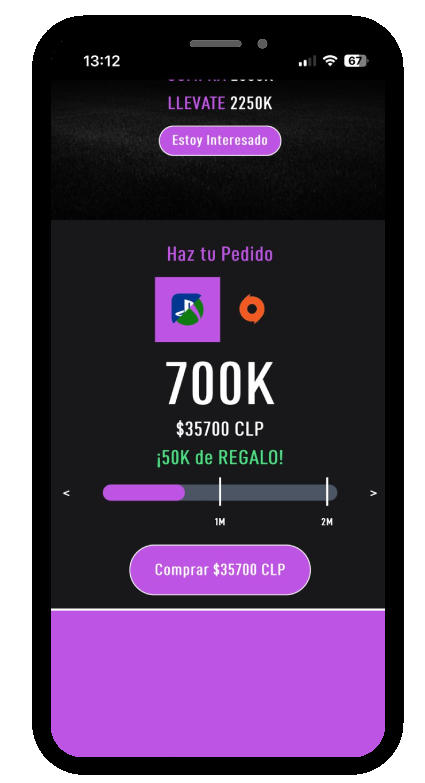
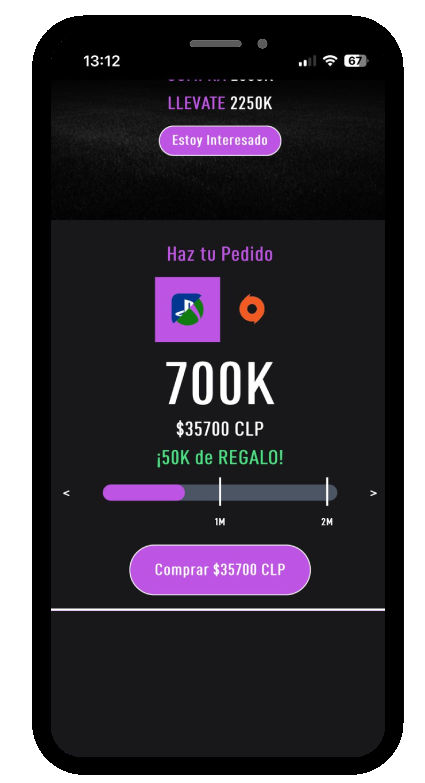
added translations

Changed region(s): [[0.1224, 0.7663, 0.9176, 0.9808]]

diff --git a/src/BuyCoins.js b/src/BuyCoins.js
@@ -7,6 +7,10 @@ import { useCountry } from "./LanguageContext";
 
 import { doc, getDoc } from "firebase/firestore";
 
+import { translate } from "./Translations";
+
+import { useLanguage } from "./LanguageContext";
+
 export default function BuyCoins() {
     const [price, setPrice] = useState(250000);
     const [offer, setOffer] = useState(null);
@@ -41,9 +45,8 @@ export default function BuyCoins() {
     
 
     const calculateBonusCoins = () => {
-        if (price >= 1000000) return "200K";
-        if (price >= 500000) return "50K";
-        if (price >= 300000) return "20K";
+        if (price >= 1000000) return "50K";
+        else if (price >= 500000) return "25K";
         return 0;
     };
 
@@ -165,7 +168,7 @@ export default function BuyCoins() {
     
     
 
-    
+    const language = useLanguage().language;
 
     return (
         <section className=" flex flex-col items-center justify-center w-full">
@@ -174,18 +177,18 @@ export default function BuyCoins() {
 
                     
                     <div className="lg:w-1/3 md:w-5/6 h-96 w-screen flex flex-col items-center justify-start lg:mt-6 text-p1 sm:text-lg font-semibold bg-zinc-900 sm:rounded-xl px-2 py-1 relative">
-                        <h1 className="z-20 w-full text-center text-3xl font-bold mt-8">¡Oferta Disponible!</h1>
+                        <h1 className="z-20 w-full text-center text-3xl font-bold mt-8">{translate("OFERTA", language)}</h1>
 
                         {offer && (
                             <>
                                 <img className="w-32 z-20" src={offer.player} alt="Oferta" />
-                                <h3 className="z-20 font-bold text-lg">COMPRÁ <span className="text-white font-extrabold">{offer.buy}K</span></h3>
-                                <h3 className="z-20 font-bold text-lg">LLEVATE <span className="text-white font-extrabold">{offer.take}K</span></h3>
+                                <h3 className="z-20 font-bold text-lg">{translate("COMPRA", language)} <span className="text-white font-extrabold">{offer.buy}K</span></h3>
+                                <h3 className="z-20 font-bold text-lg">{translate("LLEVATE", language)} <span className="text-white font-extrabold">{offer.take}K</span></h3>
                             </>
                         )}
 
-                        <button className="z-20 bg-p1 rounded-full text-white font-semibold ring-1 ring-white px-3 py-1 hover:scale-105 duration-75 ease-in-out text-sm mt-2" onClick={openWhatsAppOffer}>
-                            Estoy Interesado
+                        <button className="z-20 bg-p1 rounded-full text-white font-semibold ring-1 ring-white px-3 py-1 hover:scale-105 duration-75 ease-in-out text-xl mt-2" onClick={openWhatsAppOffer}>
+                            {translate("INTERESTED", language)}
                         </button>
 
                         <img className="absolute w-full h-full top-0 left-0 sm:rounded-xl" src="stadiumBg2.webp" alt="Background" />
@@ -195,7 +198,7 @@ export default function BuyCoins() {
                         
                         <div className="w-full flex flex-col md:flex-row md:px-5 items-center justify-center md:justify-between gap-0 mb-3">
                             <h1 className="text-p1 mt-1 mb-2 font-bold text-xl w-full text-center md:text-right md:text-4xl">
-                                Haz tu Pedido
+                                {translate("PEDIDO", language)}
                             </h1>  
                             <div className="w-full flex flex-row items-center justify-center gap-0">
 
@@ -242,10 +245,10 @@ export default function BuyCoins() {
                                 </span>
                                 <span className="text-xl font-bold text-green-400">
                                     {price >= 300000 ?
-                                    <h1>¡{calculateBonusCoins()} de REGALO!</h1>
-                                    : <h1 className="text-white w-full text-center">Llevate 
-                                        <span className="text-p1 font-bold"> +300K </span> 
-                                        para obtener un 
+                                    <h1>¡{calculateBonusCoins()} {translate("REGALO", language)}</h1>
+                                    : <h1 className="text-white w-full text-center">{translate("LLEVATE2", language)} 
+                                        <span className="text-p1 font-bold"> +500K </span> 
+                                        {translate("BONUS", language)}  
                                         <span className="text-p1 font-bold"> BONUS </span>
                                     </h1>}
                                     

diff --git a/src/App.js b/src/App.js
@@ -16,14 +16,24 @@ import { LanguageProvider } from "./LanguageContext";
 import { db } from "./firebaseConfig";
 import { doc, setDoc } from "firebase/firestore";
 
+const openWhatsApp = () => {
+  const url = `https://wa.me/34671704084`;
+  window.open(url, "_blank");
+};
+
 function Layout({ children }) {
   return (
     <LanguageProvider>
-    <div className="max-w-screen overflow-hidden min-h-screen bg-black flex flex-col items-start justify-start">
-      <Nav/>
-      <div className="flex-grow w-full">{children}</div>
-      <Footer />
-    </div>
+      <div className="max-w-screen overflow-hidden min-h-screen bg-black flex flex-col items-start justify-start">
+        <Nav/>
+        <div className="flex-grow w-full">{children}</div>
+        <Footer />
+      </div>
+
+      <button className="fixed bottom-4 right-4 bg-green-500 text-white rounded-full w-16 h-16 p-3 hover:scale-110 transition-all duration-75 ease-in-out hover:ring-1 ring-white" onClick={openWhatsApp}>
+        <svg viewBox="0 0 24 24" fill="none" xmlns="http://www.w3.org/2000/svg"><g id="SVGRepo_bgCarrier" stroke-width="0"></g><g id="SVGRepo_tracerCarrier" stroke-linecap="round" stroke-linejoin="round"></g><g id="SVGRepo_iconCarrier"> <path fill-rule="evenodd" clip-rule="evenodd" d="M3.50002 12C3.50002 7.30558 7.3056 3.5 12 3.5C16.6944 3.5 20.5 7.30558 20.5 12C20.5 16.6944 16.6944 20.5 12 20.5C10.3278 20.5 8.77127 20.0182 7.45798 19.1861C7.21357 19.0313 6.91408 18.9899 6.63684 19.0726L3.75769 19.9319L4.84173 17.3953C4.96986 17.0955 4.94379 16.7521 4.77187 16.4751C3.9657 15.176 3.50002 13.6439 3.50002 12ZM12 1.5C6.20103 1.5 1.50002 6.20101 1.50002 12C1.50002 13.8381 1.97316 15.5683 2.80465 17.0727L1.08047 21.107C0.928048 21.4637 0.99561 21.8763 1.25382 22.1657C1.51203 22.4552 1.91432 22.5692 2.28599 22.4582L6.78541 21.1155C8.32245 21.9965 10.1037 22.5 12 22.5C17.799 22.5 22.5 17.799 22.5 12C22.5 6.20101 17.799 1.5 12 1.5ZM14.2925 14.1824L12.9783 15.1081C12.3628 14.7575 11.6823 14.2681 10.9997 13.5855C10.2901 12.8759 9.76402 12.1433 9.37612 11.4713L10.2113 10.7624C10.5697 10.4582 10.6678 9.94533 10.447 9.53028L9.38284 7.53028C9.23954 7.26097 8.98116 7.0718 8.68115 7.01654C8.38113 6.96129 8.07231 7.046 7.84247 7.24659L7.52696 7.52195C6.76823 8.18414 6.3195 9.2723 6.69141 10.3741C7.07698 11.5163 7.89983 13.314 9.58552 14.9997C11.3991 16.8133 13.2413 17.5275 14.3186 17.8049C15.1866 18.0283 16.008 17.7288 16.5868 17.2572L17.1783 16.7752C17.4313 16.5691 17.5678 16.2524 17.544 15.9269C17.5201 15.6014 17.3389 15.308 17.0585 15.1409L15.3802 14.1409C15.0412 13.939 14.6152 13.9552 14.2925 14.1824Z" fill="#ffffff"></path> </g></svg>
+      </button>
+
     </LanguageProvider>
   );
 }

diff --git a/src/ShopTutorial.js b/src/ShopTutorial.js
@@ -1,13 +1,15 @@
 import React from "react";
-
+import { useLanguage } from "./LanguageContext";
+import { translate } from "./Translations";
 export default function ShopTutorial() {
     const [activeStep, setActiveStep] = React.useState(1);
+    const language = useLanguage().language;
 
     const steps = [
-        { id: 1, title: "Elije tu País.", link: "step1.webp" },
-        { id: 2, title: "Selecciona Cantidad.", link: "step2.webp" },
-        { id: 3, title: "Sigue nuestras indicaciones.", link: "step3.webp" },
-        { id: 4, title: "¡Listo!", link: "step4.webp" }
+        { id: 1, title: translate("PASO1", language), link: "step1.webp" },
+        { id: 2, title: translate("PASO2", language), link: "step2.webp" },
+        { id: 3, title: translate("PASO3", language), link: "step3.webp" },
+        { id: 4, title: translate("PASO4", language), link: "step4.webp" }
     ];
 
     return (
@@ -15,7 +17,7 @@ export default function ShopTutorial() {
             
         {/* Sección para móviles */}
         <div className="md:hidden flex flex-col items-center w-full p-4">
-            <h1 className="mt-4 mb-2 font-black text-black text-4xl text-center text-nowrap">¿Cómo Comprar?</h1>
+            <h1 className="mt-4 mb-2 font-black text-black text-4xl text-center text-nowrap">{translate("COMO", language)}</h1>
             <div className="flex justify-start gap-4 mb-4">
                 {steps.map((step) => (
                     <button 
@@ -37,7 +39,7 @@ export default function ShopTutorial() {
         <div className="hidden md:flex h-screen w-screen flex-row gap-2 items-center justify-center">
             {/* Sección Izquierda */}
             <section className="w-1/2 h-auto flex flex-col items-center justify-start gap-4 mb-3">
-                <h1 className="font-black text-black text-4xl w-full text-center mt-2">¿CÓMO COMPRAR?</h1>
+                <h1 className="font-black text-black text-4xl w-full text-center mt-2">{translate("COMO", language)}</h1>
                 {steps.map((step) => (
                     <div 
                         key={step.id} 

diff --git a/src/Boosting.js b/src/Boosting.js
@@ -1,8 +1,11 @@
 import React from "react";
+import { useLanguage } from "./LanguageContext";
+import { translate } from "./Translations";
+
 
 export default function Boosting() {
     const phoneNumber = "34671704084";
-  
+    const language = useLanguage().language;
     const openWhatsApp = () => {
       const message = `Hola ¿qué tal? Quería consultar por el servicio de Boosting. Gracias!`;
       const encodedMessage = encodeURIComponent(message);
@@ -12,15 +15,15 @@ export default function Boosting() {
 
     return (
         <article className="flex flex-col items-center justify-center w-full sm:w-2/3 h-full text-p1 mb-12 rounded-2xl" data-aos="fade-up">
-          <h1 className="text-3xl font-bold mt-6 w-full text-center">¡Consultá por nuestro Servicio de Boosting!</h1>
-          <p className="text-lg font-normal mt-2 mb-8 w-full text-center text-white">Conseguimos ese rango al que te cuesta llegar</p>
+          <h1 className="text-3xl font-bold mt-6 w-full text-center">{translate("INTERESTED", language)}</h1>
+          <p className="text-lg font-normal mt-2 mb-8 w-full text-center text-white">{translate("RANGO", language)}</p>
           <div className="w-full flex gap-4 p-7 sm:h-64 h-32 items-center justify-center">
               <img src="logos/futchampions.webp" className="h-full"></img>
               <img src="logos/rivals.webp" className="h-full"></img>
               <img src="logos/battles.webp" className="h-full"></img>
           </div>
           <button className="bg-p1 rounded-full text-white text-lg font-semibold ring-1 ring-white px-6 py-2 hover:scale-105 duration-75 ease-in-out" onClick={()=> openWhatsApp()}>
-            Estoy Interesado
+            {translate("INTERESTED", language)}
           </button>
       </article>
     )

diff --git a/src/Translations.js b/src/Translations.js
@@ -2,12 +2,44 @@ const translations = {
     en: {
         "Inicio": "Home",
         "Sobre Nosotros": "About Us",
-        "Vender Monedas": "Sell Coins"
+        "Vender Monedas": "Sell Coins",
+        "OFERTA" : "Offer Available!",
+        "COMPRA" : "BUY",
+        "LLEVATE" : "TAKE",
+        "PEDIDO" : "Place your Order",
+        "LLEVATE2" : "Take",
+        "BONUS" : "to get a",
+        "INTERESTED" : "I'm Interested",
+        "REGALO" : "as a gift!",
+        "COMO" : "HOW TO BUY?",
+        "PASO1" : "Choose your Country.",
+        "PASO2" : "Select Quantity.",
+        "PASO3" : "Follow our instructions.",
+        "PASO4" : "Done!",
+        "PAGO" : "Payment Methods",
+        "BOOSTING" : "Ask about our Boosting Service!",
+        "RANGO": "We achieve that range that is difficult for you to reach"
     },
     es: {
         "Inicio": "Inicio",
         "Sobre Nosotros": "Sobre Nosotros",
-        "Vender Monedas": "Vender Monedas"
+        "Vender Monedas": "Vender Monedas",
+        "OFERTA" : "¡Oferta Disponible!",
+        "COMPRA" : "COMPRA",
+        "LLEVATE" : "LLEVA",
+        "PEDIDO" : "Haz tu Pedido",
+        "LLEVATE2" : "Llevate",
+        "BONUS" : "para obtener un",
+        "INTERESTED" : "Estoy Interesado",
+        "REGALO" : "de regalo!",
+        "COMO" : "¿CÓMO COMPRAR?",
+        "PASO1" : "Elije tu País.",
+        "PASO2" : "Selecciona Cantidad.",
+        "PASO3" : "Sigue nuestras indicaciones.",
+        "PASO4" : "¡Listo!",
+        "PAGO" : "Métodos de Pago",
+        "BOOSTING" : "¡Pregunta por nuestro Servicio de Boosting!",
+        "RANGO": "Conseguimos ese rango al que te cuesta llegar"
     }
     
   };

diff --git a/src/Payment.js b/src/Payment.js
@@ -1,11 +1,12 @@
 import React from "react";
-
+import { useLanguage } from "./LanguageContext";
+import { translate } from "./Translations";
 export default function Payment() {
   const imgClass = "w-full sm:w-1/2 hover:scale-105 transition duration-75 cursor-pointer";
-
+  const language = useLanguage().language;
   return (
       <article className="flex flex-col items-center justify-center w-4/5 sm:w-2/3 h-full text-p1 gap-3 mb-12 rounded-2xl" data-aos="fade-up">
-        <h1 className="text-3xl font-bold mb-3 mt-12">Metodos de Pago</h1>
+        <h1 className="text-3xl font-bold mb-3 mt-12">{translate("PAGO", language)}</h1>
         <div className="grid sm:grid-cols-4 grid-cols-3 gap-0 justify-center items-center w-full h-auto p-4 ring-p1 bg-zinc-900 rounded-2xl">
           {Array.from({ length: 11 }).map((_, index) => (
             <div key={index} className="flex items-center justify-center">

diff --git a/src/MainBanner.js b/src/MainBanner.js
@@ -1,12 +1,14 @@
 import React from "react";
-
+import { useLanguage } from "./LanguageContext";
 export default function MainBanner() {
+    const language = useLanguage();
+    const langua = language.language;
     return (
         <div className="w-screen flex flex-col items-center justify-center mt-12">
 
-            <img className="max-[450px]:hidden w-screen object-cover" src="desktopBanner.webp" alt="bg" data-aos="fade-up"/>
+            <img className="max-[450px]:hidden w-screen object-cover" src={"desktopBanner" + langua + ".webp"} alt="bg" data-aos="fade-up"/>
 
-            <img className="hidden max-[450px]:block w-screen object-cover" src="phoneBanner.webp" alt="bg" data-aos="fade-up" />
+            <img className="hidden max-[450px]:block w-screen object-cover" src={"phoneBanner" + langua + ".webp"} alt="bg" data-aos="fade-up" />
         </div>
     );
 }
